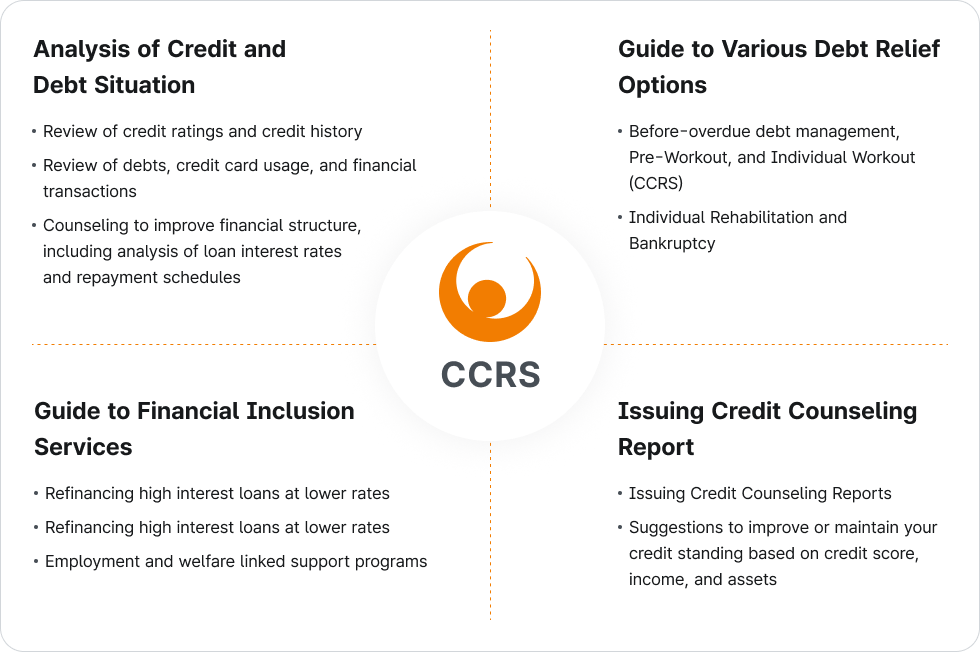
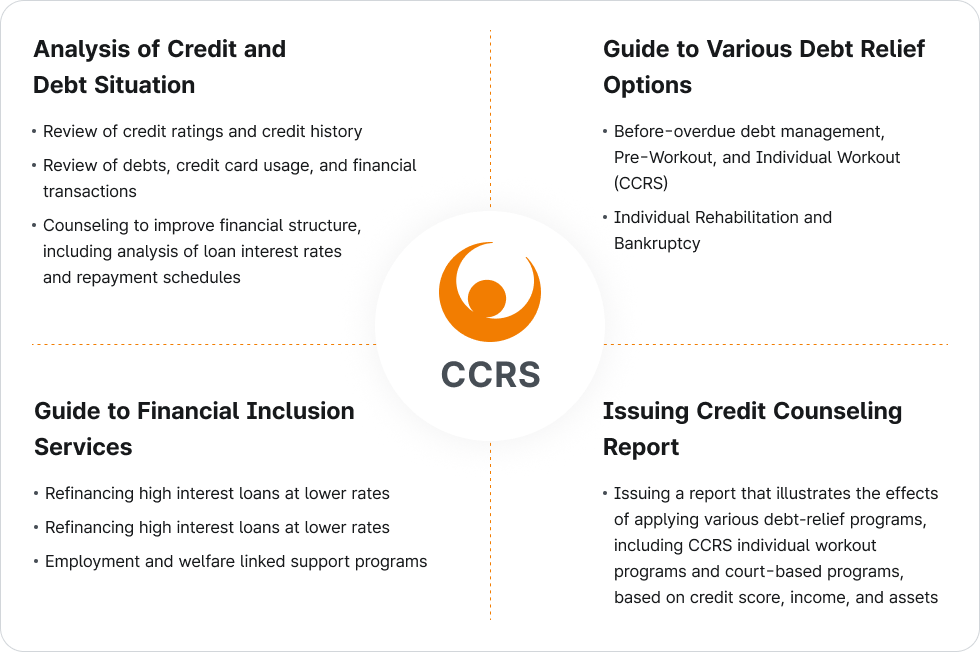
수정반영

diff --git a/html_en/generalCounseling.html b/html_en/generalCounseling.html
@@ -114,10 +114,10 @@
                                                 </p>
                                             </div>
                                             <div class="g-img mt40">
-                                                <img src="/type/www/images/en/en_creditcounseling.png?ver=4.5" alt="">
+                                                <img src="/type/www/images/en/en_creditcounseling.png?ver=4.6" alt="">
                                             </div>
-                                            <!-- <div class="g-grid-wrap unit4" style="margin: 24px 0 40px;">
-                                                <div class="g-info-box full">
+                                            <!-- <div class="g-grid-wrap unit4" style="margin: 24px 0 40px;border: 1px solid #ededed; border-radius: 24px;overflow: hidden;">
+                                                <div class="g-info-box white-box full">
                                                     <div class="g-desc-box row">
                                                         <div>
                                                             <p class="g-tit">Analysis of Credit and Debt Situation</p>
@@ -131,7 +131,7 @@
                                                         </div>
                                                     </div>
                                                 </div>
-                                                <div class="g-info-box full">
+                                                <div class="g-info-box white-box full">
                                                     <div class="g-desc-box row">
                                                         <div class="conts-desc">
                                                             <div>
@@ -146,7 +146,7 @@
                                                         </div>
                                                     </div>
                                                 </div>
-                                                <div class="g-info-box full">
+                                                <div class="g-info-box white-box full">
                                                     <div class="g-desc-box row">
                                                         <div class="conts-desc">
                                                             <div>
@@ -162,7 +162,7 @@
                                                         </div>
                                                     </div>
                                                 </div>
-                                                <div class="g-info-box full">
+                                                <div class="g-info-box white-box full">
                                                     <div class="g-desc-box row">
                                                         <div class="conts-desc">
                                                             <div>

diff --git a/html/개인회생·파산제도_개인파산이란.html b/html/개인회생·파산제도_개인파산이란.html
@@ -172,19 +172,19 @@
                                                 <div class="accordion-body">
                                                     <div class="conts-desc roundcheck">
                                                         <ul class="krds-info-list decimal">
-                                                            <li><strong>지급 불능 상태</strong>여야 합니다.
+                                                            <li class="mb8"><strong>지급 불능 상태</strong>여야 합니다.
                                                                 <ul class="krds-info-list dash">
                                                                     <li>현재의 수입이나 재산으로는 채무를 변제할 수 없는 상황이어야 합니다.</li>
                                                                 </ul>
                                                             </li>
-                                                            <li>소득이 일정 수준 이하여야 합니다.
+                                                            <li class="mb8">소득이 일정 수준 이하여야 합니다.
                                                                 <ul class="krds-info-list dash">
                                                                     <li>채무자가 소득이 있어 채무를 일정부분 변제할 수 있음에도 개인파산을 신청하는 경우 파산
                                                                         및 면책 신청이 기각될 수 있습니다.</li>
                                                                 </ul>
                                                             </li>
-                                                            <li>과거 개인회생 면책 이력이 있는 경우 면책일부터 5년이 경과해야 합니다.</li>
-                                                            <li>과거 개인파산 면책 이력이 있는 경우 면책일부터 7년이 경과해야 합니다.</li>
+                                                            <li class="mb8">과거 개인회생 면책 이력이 있는 경우 <strong>면책일부터 5년이 경과</strong>해야 합니다.</li>
+                                                            <li>과거 개인파산 면책 이력이 있는 경우 <strong>면책일부터 7년이 경과</strong>해야 합니다.</li>
                                                         </ul>
                                                     </div>
                                                 </div>

diff --git a/html/개인회생·파산제도_신청지원.html b/html/개인회생·파산제도_신청지원.html
@@ -162,7 +162,7 @@
                                             aria-labelledby="accordionHeaderSample01">
                                             <div class="accordion-body">
                                                 <div class="conts-desc">
-                                                    <p>신용회복위원회는 개인회생·파산 등 채무문제 해결이 필요한 취약채무자들을 대상으로 <b>개인회생·파산 법원 접수 절차</b>를 무료로 지원하여 채무자가 경제적으로 재기할 수 있도록 지원하고 있습니다.</p>
+                                                    <p>신용회복위원회는 채무문제 해결이 필요한 취약채무자들을 대상으로 <b>개인회생·파산 법원 접수 절차를 무료로 지원</b>하여 채무자가 경제적으로 재기할 수 있도록 지원하고 있습니다.</p>
                                                 </div>
                                             </div>
                                         </div>

diff --git a/html/개인회생·파산제도_개인회생이란.html b/html/개인회생·파산제도_개인회생이란.html
@@ -182,7 +182,7 @@
                                                         </li>
                                                         <li class="mb8"><strong>계속적이고 반복적인 수입</strong>이 있어야 합니다.</li>
                                                         <li class="mb8">채무 총액이 무담보 10억원, 담보부 15억원 이하여야 합니다.</li>
-                                                        <li>과거 개인회생·파산제도 면책 이력이 있는 경우, 각 <strong>면책일로부터 5년</strong>이 <strong>경과</strong>해야 합니다.</li>
+                                                        <li>과거 개인회생·파산제도 면책 이력이 있는 경우, 각 <strong>면책일로부터 5년이 경과</strong>해야 합니다.</li>
                                                     </ul>
                                                 </div>
                                             </div>

diff --git a/html/채무조정제도비교_종류비교.html b/html/채무조정제도비교_종류비교.html
@@ -186,7 +186,7 @@
                                                     보유 재산가액 이상으로 변제
                                                 </td>
                                                 <td class="secondtd">
-                                                    보유 재산을 모두 처분하여 채무를 상환하여도 상환되지 않은 잔여채무 면책
+                                                    보유 재산 처분 후에도 상환되지 않은 잔여 채무에 대해 면책
                                                 </td>
                                             </tr>
                                             <tr>

diff --git a/html_en/debtAdjustmentPrograms.html b/html_en/debtAdjustmentPrograms.html
@@ -191,7 +191,7 @@
                                             <td>Kept 1 year</td>
                                             <td>None</td>
                                             <td>None</td>
-                                            <td>Kept 3–5 years</td>
+                                            <td>Kept 1 year</td>
                                             <td>Kept 5 years</td>
                                         </tr>
                                     </tbody>
